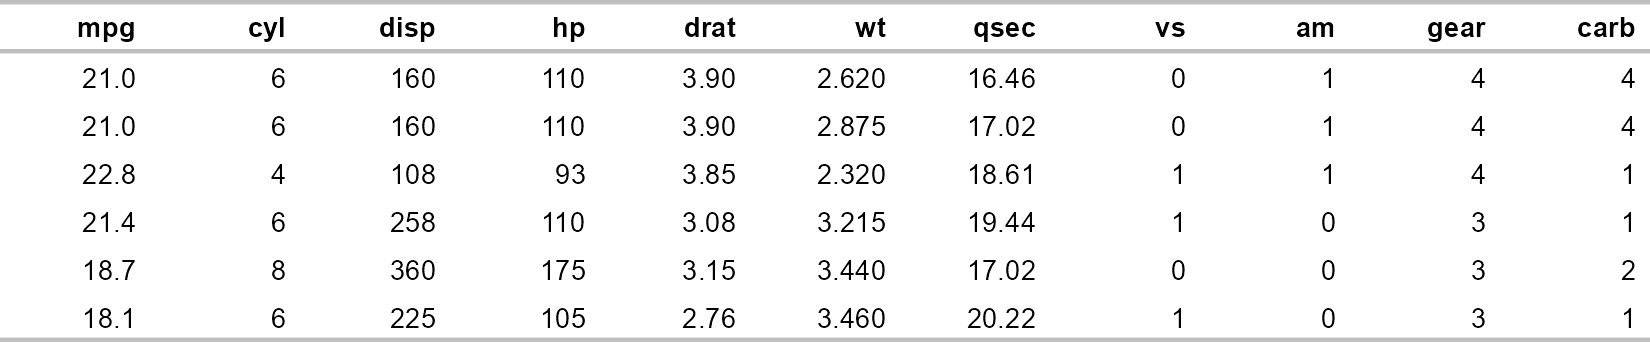
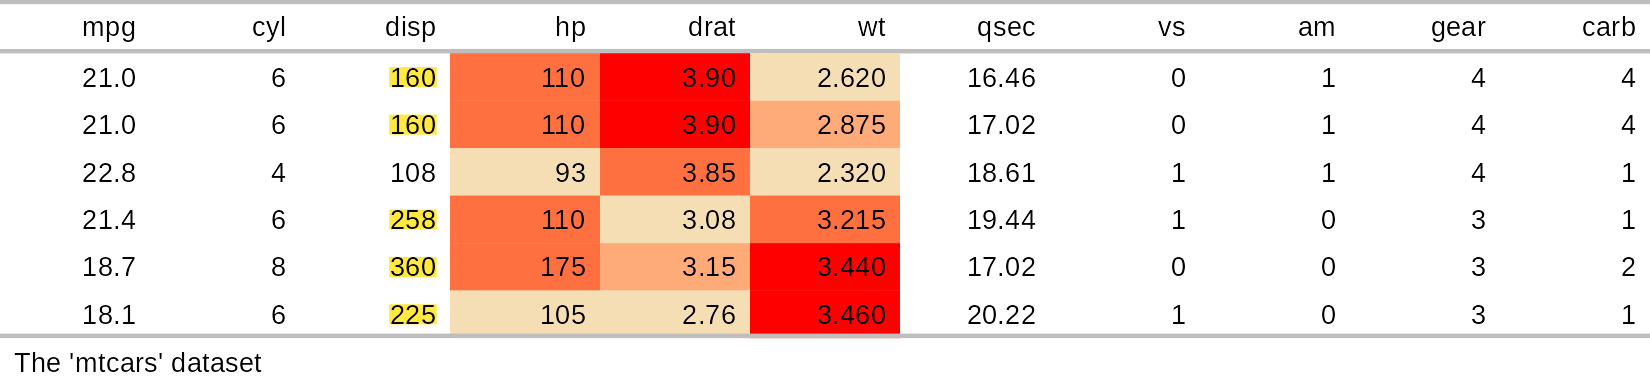
doc: review readme
ci skip

diff --git a/README.md b/README.md
@@ -10,24 +10,25 @@ status](https://github.com/davidgohel/flextable/workflows/R-CMD-check/badge.svg)
 coverage](https://codecov.io/gh/davidgohel/flextable/branch/master/graph/badge.svg)](https://app.codecov.io/gh/davidgohel/flextable)
 ![Active](https://www.repostatus.org/badges/latest/active.svg)
 
-The flextable package provides a framework for easily create tables for
-reporting and publications. Tables can be easily formatted with a set of
+The flextable package provides a framework for easily creating tables
+for reporting and publications. Tables can be formatted with a set of
 verbs such as `bold()`, `color()`, they can receive a header of more
-than one line, cells can be merged or contain an image. The package make
-it possible to build any table for publication from a `data.frame` and
-provides sugar function `as_flextable()` to convert several R objects to
-a flextable, such as an object return from `table()` or a model.
+than one line, cells can be merged or contain an image. The package
+makes it possible to build any table for publication from a `data.frame`
+and provides convenience function `as_flextable()` to convert several R
+objects to a flextable, such as an object returned from `table()` or a
+model.
 
 Tables can be embedded within HTML, PDF, Word and PowerPoint documents
-from R Markdown documents and within RTF or Microsoft Word or PowerPoint
-documents with package officer. Tables can also be rendered as R plots
-or graphic files (png).
-
-<img src="man/figures/fig_formats.png" width="170px" alt="flextable formats" align="center" />
+from R Markdown and Quarto documents and within RTF or Microsoft Word or
+PowerPoint documents with package
+[officer](https://davidgohel.github.io/officer/). Tables can also be
+exported as image files (png, svg) or combined with ggplot2 plots in
+patchwork layouts.
 
 ``` r
-flextable(mtcars) %>% 
-  theme_vanilla() %>% 
+flextable(mtcars) |>
+  theme_vanilla() |>
   save_as_docx(path = "mytable.docx")
 ```
 
@@ -48,35 +49,33 @@ tabulations.
 
 ``` r
 library(flextable)
-set_flextable_defaults(
-  font.family = "Arial", font.size = 10, 
-  border.color = "gray", big.mark = "")
 
-ft <- flextable(head(mtcars)) |> 
-  bold(part = "header") 
-ft
+flextable(head(airquality))
 ```
 
-<img src="man/figures/README-mtcars-dataset-1.png" width="792" />
+<img src="man/figures/README-simple-example-1.png" alt="" width="432" />
+
+Formatting can be layered on with a set of functions:
 
 ``` r
-
-ft |> 
-  highlight(i = ~ mpg < 22, j = "disp", color = "#ffe842") |> 
-  bg(j = c("hp", "drat", "wt"), 
-     bg = scales::col_quantile(palette = c("wheat", "red"), domain =NULL)) |> 
+flextable(head(mtcars)) |>
+  highlight(i = ~ mpg < 22, j = "disp", color = "#ffe842") |>
+  bg(
+    j = c("hp", "drat", "wt"),
+    bg = scales::col_quantile(palette = c("wheat", "red"), domain = NULL)
+  ) |>
   add_footer_lines("The 'mtcars' dataset")
 ```
 
-<img src="man/figures/README-mtcars-dataset-2.png" width="792" />
+<img src="man/figures/README-mtcars-dataset-1.png" alt="" width="792" />
 
 ``` r
-ggplot2::diamonds[, c("cut", "carat", "price", "clarity", "table")] |> 
-  summarizor(by = c("cut")) |> 
+ggplot2::diamonds[, c("cut", "carat", "price", "clarity", "table")] |>
+  summarizor(by = c("cut")) |>
   as_flextable(spread_first_col = TRUE)
 ```
 
-<img src="man/figures/README-diamonds-dataset-1.png" width="740" />
+<img src="man/figures/README-diamonds-dataset-1.png" alt="" width="740" />
 
 ## Installation
 
@@ -92,9 +91,10 @@ devtools::install_github("davidgohel/flextable")
 
 ## Resources
 
-- User guide: <https://ardata-fr.github.io/flextable-book/>
-- Manuals: <https://davidgohel.github.io/flextable/reference/index.html>
-- Gallery of examples: <https://ardata.fr/en/flextable-gallery/>
+- [User guide](https://ardata-fr.github.io/flextable-book/)
+- [Reference
+  manual](https://davidgohel.github.io/flextable/reference/index.html)
+- [Gallery of examples](https://ardata.fr/en/flextable-gallery/)
 
 ## Bug reports
 
